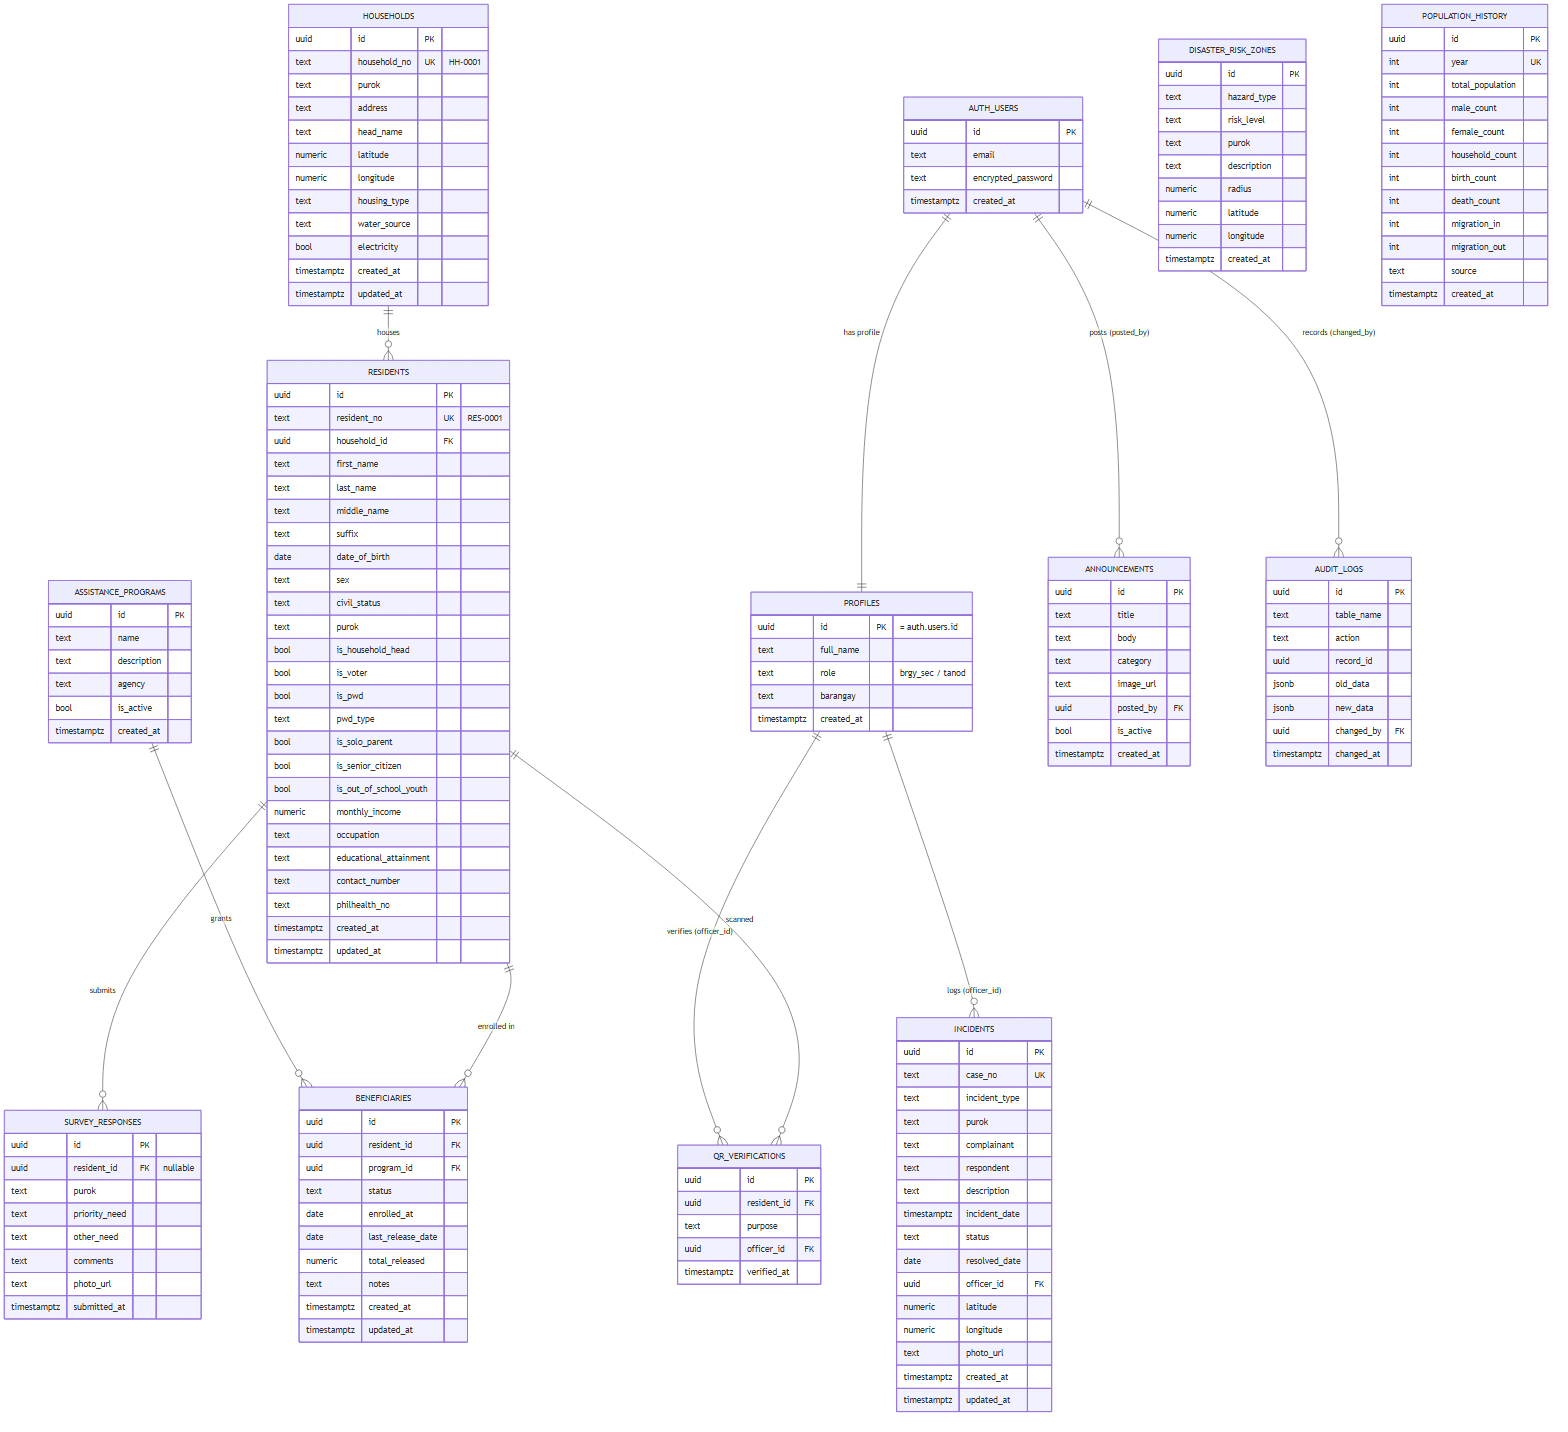
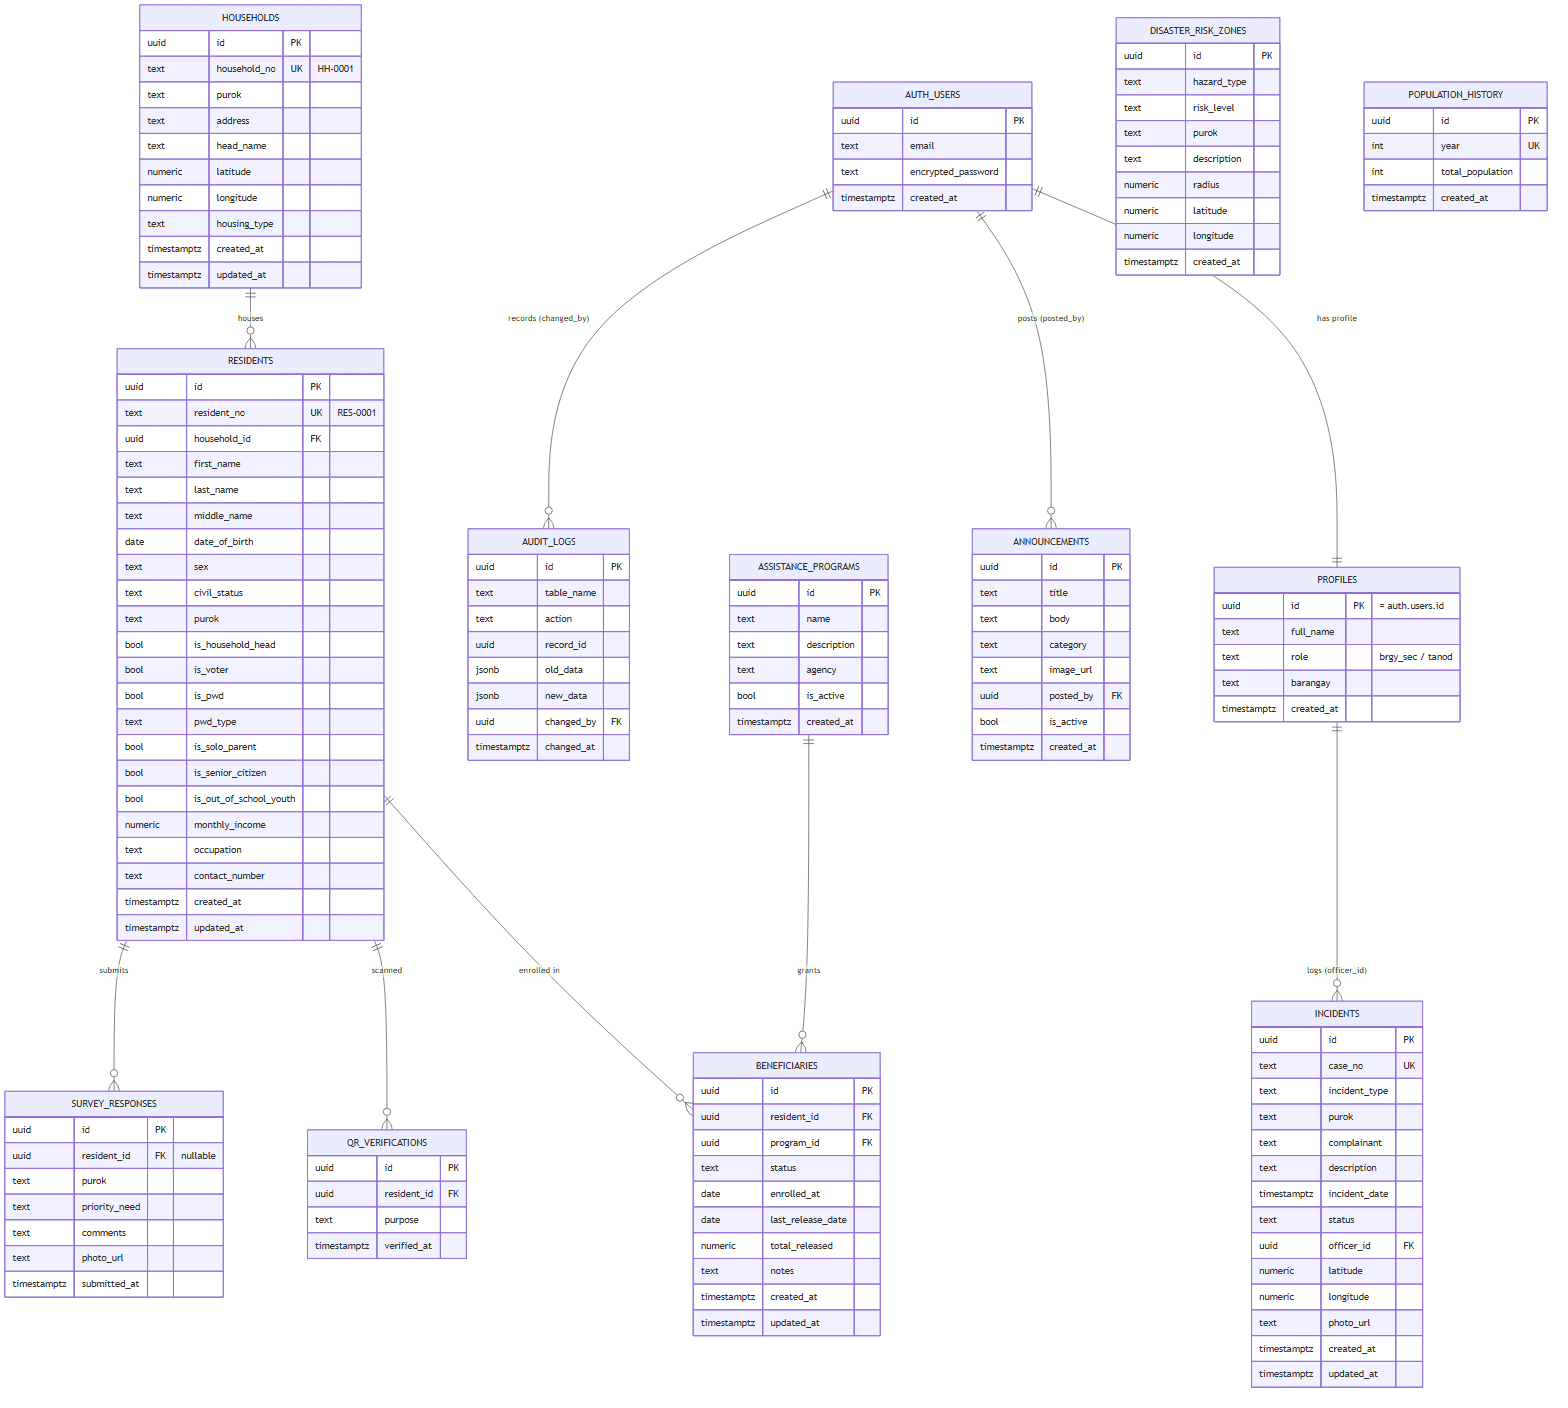
Trim unused columns: align DB + ERD to actual usage (Option A)
Removed schema columns the app never reads/writes so the database, ERD,
and system match. trim_unused_columns.sql drops: residents.age/suffix/
educational_attainment/philhealth_no, households.water_source/electricity,
qr_verifications.officer_id, incidents.respondent/resolved_date,
survey_responses.other_need, population_history male/female/household/
birth/death/migration/source, and the unused residents_with_age view.
Removed educational_attainment + dead EDU constant from the resident form
so saves don't reference the dropped column. ERD regenerated to match.

diff --git a/src/pages/Residents.jsx b/src/pages/Residents.jsx
@@ -25,12 +25,10 @@ import * as XLSX from 'xlsx'
 
 const PUROKS = ['Sitio Hunan', 'Sitio Hagu', 'Sitio Tuva']
 const CIVIL = ['Single', 'Married', 'Widowed', 'Separated', 'Annulled']
-const EDU = ['Elementary', 'High School', 'Senior High School', 'College', 'Vocational', 'Post-Graduate', 'None']
-
 const emptyForm = {
   resident_no: '', first_name: '', last_name: '', middle_name: '', date_of_birth: '',
   sex: 'Male', civil_status: 'Single', purok: 'Sitio Hunan', monthly_income: '',
-  occupation: '', educational_attainment: 'High School', contact_number: '',
+  occupation: '', contact_number: '',
   is_household_head: false, is_pwd: false, pwd_type: '', is_solo_parent: false,
   is_senior_citizen: false, is_voter: false, is_out_of_school_youth: false,
   household_id: '',